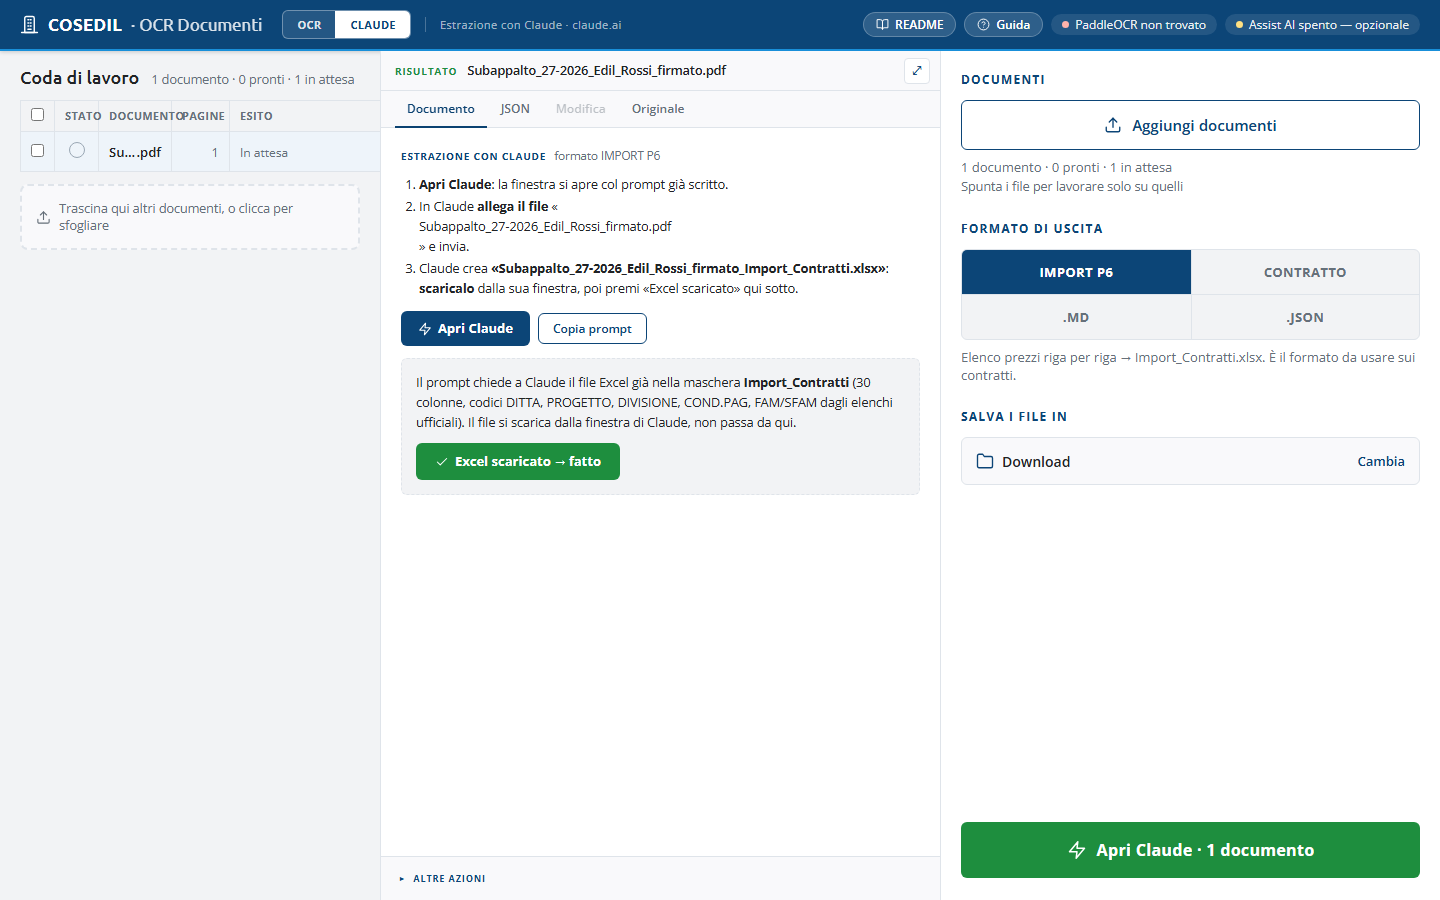
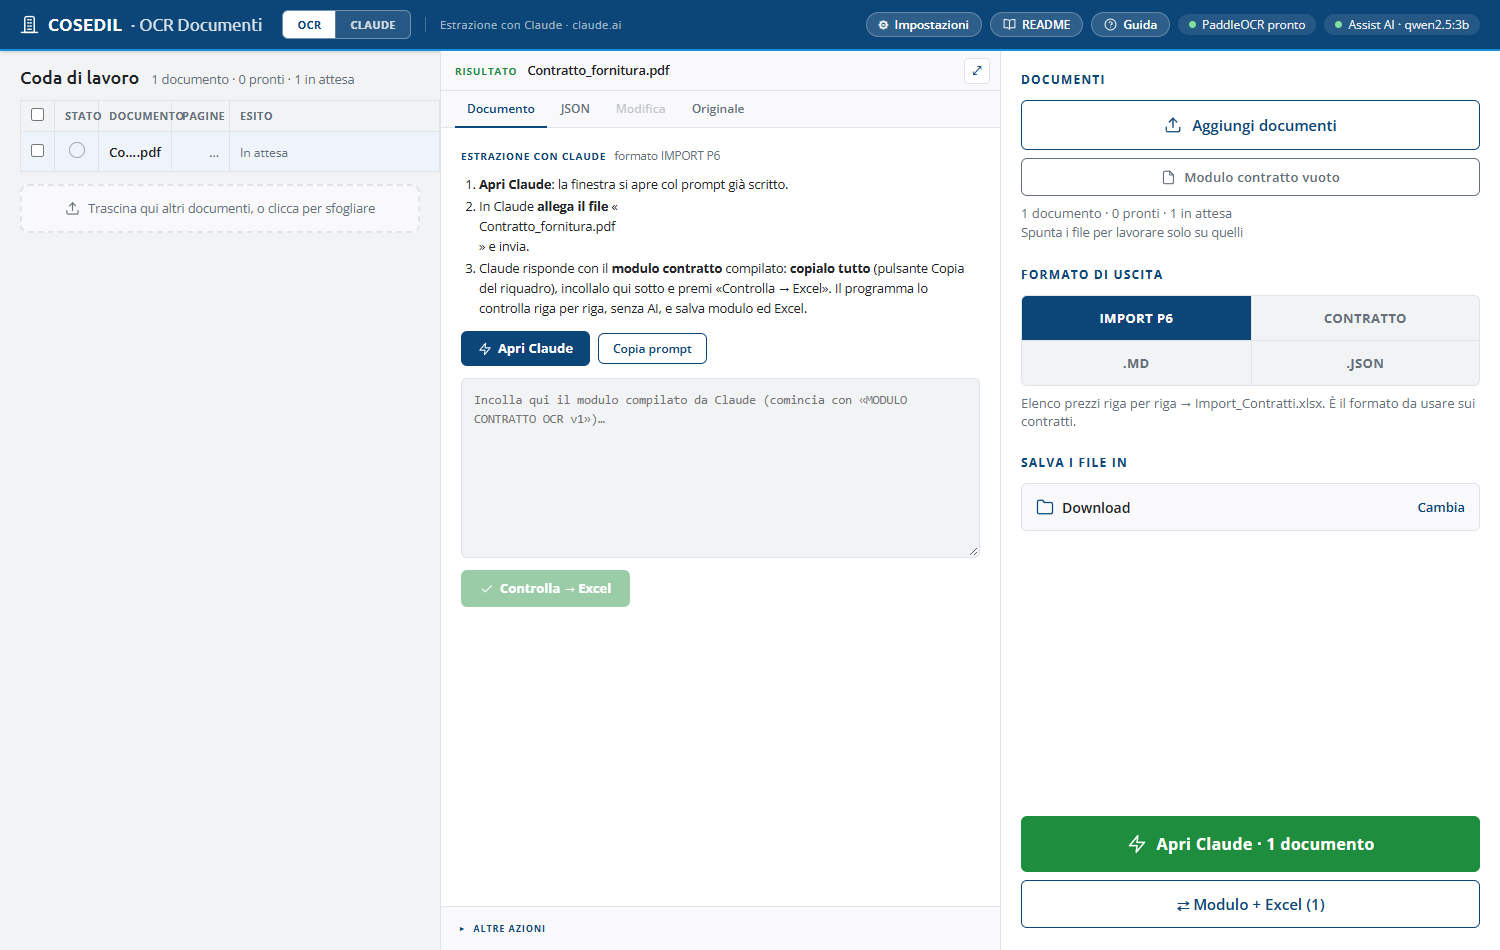
docs(ocr-documenti): guida utente della pagina CLAUDE col modulo contratto
Cosa: docs/guida/04-formati-e-claude.md §4.3 riscritto per il nuovo giro: Apri Claude,
allega il file, copia il modulo dal riquadro di codice (con «continua» se si interrompe),
incolla e «Controlla → Excel»; cosa fare col riquadro rosso e le righe # DA VERIFICARE.
docs/guida/05-problemi.md: due righe nuove (modulo di Claude non valido, modulo non
trovato nella risposta). Immagini: 08-pagina-claude.png rifatta, 20-claude-modulo-errore.png
nuova (errore con il numero di riga).
Perché: la pagina CLAUDE ora chiede il modulo invece dell'Excel; la guida descriveva
ancora «Excel scaricato → fatto». L'avviso sui dati che escono dalla rete ora cita solo
l'elenco commesse, l'unico che resta nel prompt.
Verifica: screenshot presi dalla prova dal vivo in Edge headless dello stesso commit.

diff --git a/ocr-documenti/docs/guida/04-formati-e-claude.md b/ocr-documenti/docs/guida/04-formati-e-claude.md
@@ -35,20 +35,40 @@ può passare da **OCR** a **CLAUDE**: la lettura la fa Claude sul sito
 claude.ai, con l'account dell'utente.
 
 > **Attenzione:** in questa modalità il documento e la richiesta (che
-> contiene anche gli elenchi ufficiali: commesse, divisioni, condizioni di
-> pagamento) **escono dalla rete aziendale**. Usala solo se l'azienda lo consente.
+> contiene anche l'elenco ufficiale delle commesse) **escono dalla rete
+> aziendale**. Usala solo se l'azienda lo consente.
 
-![La modalità Claude con un contratto in coda](img/08-pagina-claude.png)
+Claude qui è solo un **aiuto alla compilazione**: con i formati IMPORT P6 e
+CONTRATTO non prepara l'Excel, compila il **modulo contratto** (vedi 4.4). Il
+modulo lo controlla il programma, senza AI, come se l'avessi scritto tu, e l'Excel
+esce dal modulo.
 
-Con il formato IMPORT P6:
+![La modalità Claude: il riquadro dove incollare il modulo](img/08-pagina-claude.png)
+
+Con i formati IMPORT P6 e CONTRATTO:
 
 1. premi **Apri Claude**: si apre claude.ai con la richiesta già scritta
    (**Copia prompt** la copia negli appunti se la finestra non si apre);
 2. in Claude **allega il file** indicato e invia;
-3. Claude prepara `<nome>_Import_Contratti.xlsx`: **scaricalo** dalla sua finestra;
-4. torna qui e premi **Excel scaricato → fatto** per segnare il documento come fatto.
+3. Claude risponde con il modulo in un riquadro di codice che comincia con
+   `MODULO CONTRATTO OCR v1`: **copialo tutto** con il pulsante Copia del riquadro.
+   Se la risposta si interrompe, scrivi «continua» a Claude e copia anche il
+   seguito;
+4. incollalo nel riquadro del pannello e premi **Controlla → Excel**. Il programma
+   salva `<nome>_modulo.txt` e `<nome>_Import_Contratti.xlsx` nella cartella scelta.
 
-Con gli altri formati, al punto 3 si **copia la risposta** di Claude, la si
+Se il modulo ha un errore, in alto compare il riquadro rosso con il **numero di
+riga** e il motivo, e non si salva niente:
+
+![Modulo di Claude con una data sbagliata: il programma indica la riga](img/20-claude-modulo-errore.png)
+
+Correggi la riga nel riquadro, oppure chiedi a Claude di correggerla e incolla di
+nuovo il modulo; poi premi ancora **Controlla → Excel**. Le righe
+`# DA VERIFICARE` che Claude aggiunge segnano i valori che non ha potuto leggere:
+controllali nel `<nome>_modulo.txt` salvato. Se correggi qualcosa, rimetti in coda
+il `.txt` e l'Excel si rifà dal modulo.
+
+Con i formati .MD e .JSON, al punto 3 si **copia la risposta** di Claude, la si
 incolla nel riquadro del pannello e si preme **Elabora**. **Rifai con Claude**
 riparte da capo su un documento già fatto.
 

diff --git a/ocr-documenti/docs/guida/05-problemi.md b/ocr-documenti/docs/guida/05-problemi.md
@@ -20,6 +20,8 @@
 | La scansione automatica non è partita | Parte solo con OCR Documenti aperto in Chrome/Edge. All'arrivo di un file: un file appena copiato aspetta un minuto. Se stavi elaborando altro, parte al giro dopo. |
 | Un contratto è finito in **da controllare** | Il programma l'ha respinto: il motivo è in `registro_scansioni.csv` (cartella di destinazione) e nella colonna *Esito*. Correggi e rimetti il file nella cartella dei contratti. |
 | *Modulo contratto non valido (N errori)* | Il modulo compilato a mano ha valori fuori formato: ogni errore dice la **riga** del file. Correggi, salva e premi **Scansiona** (vedi [4.4](04-formati-e-claude.md#44-modulo-contratto-i-dati-scritti-a-mano-letti-alla-lettera)). |
+| *Il modulo compilato da Claude non è valido (N punti)* nella pagina CLAUDE | Il riquadro rosso dice la riga e il motivo e non è stato salvato niente. Correggi la riga nel riquadro, o chiedi a Claude di correggerla e incolla di nuovo il modulo, poi **Controlla → Excel** (vedi [4.3](04-formati-e-claude.md#43-modalità-claude)). |
+| *Nella risposta incollata non c'è il modulo* | Hai incollato solo una parte della risposta: in Claude copia tutto il riquadro di codice che comincia con `MODULO CONTRATTO OCR v1`. Se la risposta si era interrotta, scrivi «continua» e copia anche il seguito. |
 | Dopo *Converti in modulo contratto + Excel* il riquadro rosso dice che il modulo va completato, e l'Excel non c'è | Il documento non riportava un dato obbligatorio, o un valore letto era fuori formato: l'Excel non si fa finché il modulo non è valido. Apri `<nome>_modulo.txt`, cerca le righe `# DA VERIFICARE`, compila i campi indicati e rimetti il file in coda: l'Excel esce dal modulo corretto. |
 | Un modulo **scansionato** viene respinto con *la riga ha N celle, l'intestazione 6* | L'OCR ha perso un `\|` in una voce che non ha l'importo, quindi il programma non può verificarla. Correggi quella voce nel modulo (o scrivi l'importo) e ristampa, oppure usa il file di testo. |
 | Un modulo `.txt` viene mostrato come testo invece di essere elaborato | La prima riga del file deve essere esattamente `MODULO CONTRATTO OCR v1`: parti dal modulo vuoto scaricato. |
